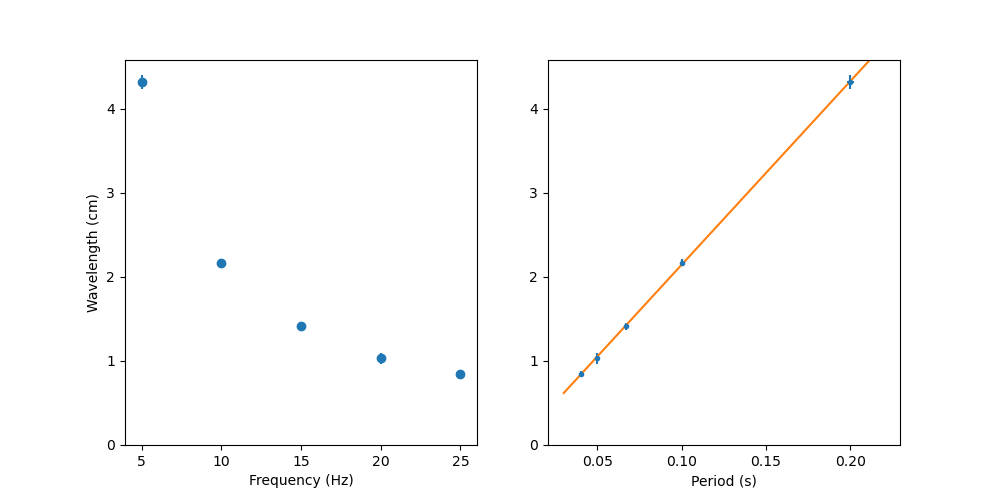
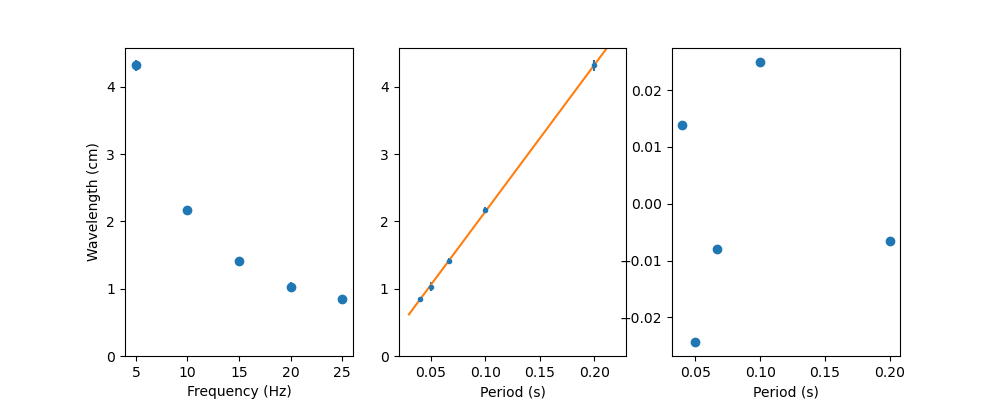
Add residual plots

diff --git a/2a.py b/2a.py
@@ -4,7 +4,7 @@ from scipy.stats import linregress
 
 # Set style
 plt.rcParams["font.family"] = "sans-serif"
-plt.rcParams["figure.figsize"] = (10, 5)
+plt.rcParams["figure.figsize"] = (10, 4)
 
 # Data
 x = np.array([5, 10, 15, 20, 25])
@@ -13,7 +13,7 @@ y = np.array([4.32, 2.17, 1.41, 1.03, 0.85])
 x_error = np.ones(5) * 0.05
 y_error = np.array([0.08, 0.04, 0.04, 0.07, 0.03])
 
-fig, axs = plt.subplots(1, 2)
+fig, axs = plt.subplots(1, 3)
 
 # Plot
 axs[0].errorbar(x, y, yerr=y_error, xerr=x_error, fmt="o")
@@ -34,6 +34,11 @@ result = linregress(period, y)
 x_conti = np.linspace(0.03, 0.22)
 y_conti = result.intercept + result.slope * x_conti
 axs[1].plot(x_conti, y_conti)
+
+# Residuals
+axs[2].scatter(period, y - result.intercept - period * result.slope)
+axs[2].set_xlabel("Period (s)")
+# axs[2].set_ylabel("Residuals")
 
 # Show
 plt.savefig("2a.png")

diff --git a/4.py b/4.py
@@ -4,6 +4,7 @@ from scipy.stats import linregress
 
 # Set style
 plt.rcParams["font.family"] = "sans-serif"
+plt.rcParams["figure.figsize"] = (10, 4)
 
 # Data
 x = np.array([0.25, 0.286, 0.333, 0.4, 0.5])
@@ -18,12 +19,17 @@ x_conti = np.linspace(0.23, 0.57)
 y_conti = result.intercept + result.slope * x_conti
 
 # Plot
-plt.errorbar(x, y, yerr=y_error, xerr=x_error, fmt="o")
-plt.plot(x_conti, y_conti)
+figure, axs = plt.subplots(1, 2)
+axs[0].errorbar(x, y, yerr=y_error, xerr=x_error, fmt="o")
+axs[0].plot(x_conti, y_conti)
 
-plt.xlabel("1/a (cm^-1)")
-plt.ylabel("sin(theta)")
-plt.ylim(0, None)
+axs[0].set_xlabel("1/a (cm^-1)")
+axs[0].set_ylabel("sin(theta)")
+axs[0].set_ylim(0, None)
+
+axs[1].scatter(x, y - result.intercept - x * result.slope)
+axs[1].set_xlabel("1/a (cm^-1)")
+axs[1].set_ylabel("Residuals")
 
 # Show
 plt.savefig("4a.png")
